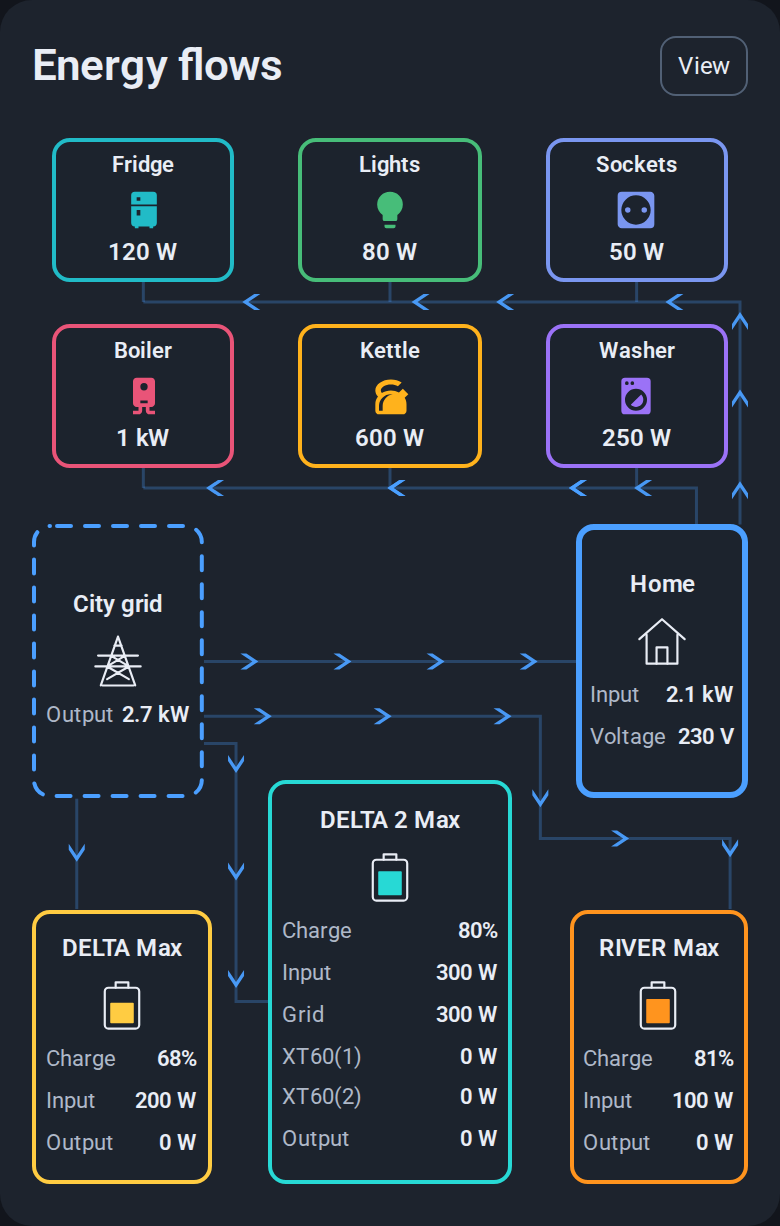
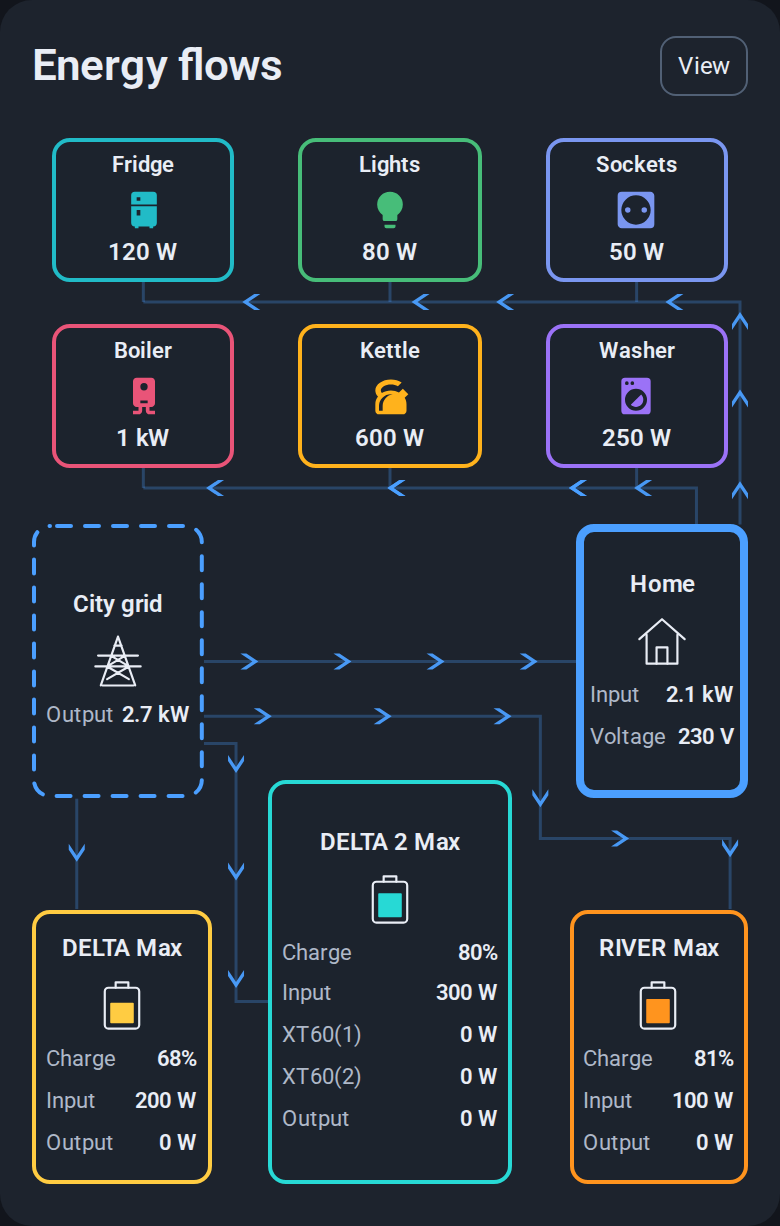
Beta 2.1.3: preserve 2.1.1 flow curves with three minimal display changes

diff --git a/suris-ecoflow-flow-card.js b/suris-ecoflow-flow-card.js
@@ -1,8 +1,8 @@
-/* Suris EcoFlow Flow Card v2.1.1 | MIT | No external dependencies. */
+/* Suris EcoFlow Flow Card v2.1.3-beta.2 | MIT | No external dependencies. */
 (() => {
   'use strict';
   const TAG = 'suris-ecoflow-flow-card';
-  const VERSION = '2.1.1';
+  const VERSION = '2.1.3-beta.2';
   const ANIMATIONS = ['dashes', 'dots', 'arrows', 'pulse', 'single_dot'];
   const NS = 'http://www.w3.org/2000/svg';
   let cardSequence = 0;
@@ -200,6 +200,7 @@
     @container(max-width:520px){.node.home{padding-inline:3px}}
     .node.consumer{height:72px;min-height:72px;padding:4px;gap:3px;border-radius:9px}.consumer h3{font-size:clamp(11px,1.5cqw,13px);line-height:1.2;white-space:nowrap;overflow:hidden;text-overflow:ellipsis;overflow-wrap:normal}.consumer .icon{height:22px;margin:0;color:var(--node-color)}.consumer ha-icon{--mdc-icon-size:22px;width:22px;height:22px}.consumer ha-icon:not(:defined){display:none}.consumer ha-icon:defined+.fallback{display:none}.consumer .fallback{height:22px}.consumer .fallback svg{width:22px}.consumer .value{width:100%;text-align:center;font-size:12px;line-height:16px}.consumer:focus-within{outline:1px solid var(--node-color);outline-offset:2px}
     .sideflow .node{right:auto;bottom:auto;min-height:0;height:auto;padding:5px 6px;gap:2px;background:var(--ha-card-background,var(--card-background-color,#1c1c1c));border-radius:10px}
+    .sideflow .auxiliary_1,.sideflow .auxiliary_2{padding-inline:1px}
     .sideflow .node h3{font-size:clamp(11.5px,3.625cqw,14.5px);line-height:1.1;overflow:hidden;display:-webkit-box;-webkit-box-orient:vertical;-webkit-line-clamp:2;white-space:normal;overflow-wrap:anywhere}
     .sideflow .node .icon{display:none}.sideflow .row{font-size:clamp(11px,3.25cqw,13px);line-height:1.2;gap:2px}.sideflow .row[hidden]{display:none}
     .sideflow .grid h3,.sideflow .home h3{display:none}.sideflow .grid .icon,.sideflow .home .icon{display:flex;height:clamp(28px,8cqw,38px);margin:0}.sideflow .grid .icon{color:var(--flow-grid)}.sideflow .home .icon{color:var(--flow-home)}
@@ -327,7 +328,7 @@
         }
         else {
           this._row(node, 'soc', text.soc); this._row(node, 'input', text.input);
-          if (key === 'main') { this._row(node, 'ac', text.ac); this._row(node, 'solar_1', 'XT60(1)'); this._row(node, 'solar_2', 'XT60(2)'); }
+          if (key === 'main') { this._row(node, 'solar_1', 'XT60(1)'); this._row(node, 'solar_2', 'XT60(2)'); }
           this._row(node, 'output', text.output);
         }
         this._nodes[key] = node; this._diagram.append(node);
@@ -364,7 +365,6 @@
         let entity = c[node][field === 'soc' ? 'soc' : `${field}_power`];
         if (node === 'grid') entity = c.grid.power;
         if (node === 'home') entity = field === 'voltage' ? c.home.voltage : c.home.power;
-        if (node === 'main' && field === 'ac') entity = c.main.ac_input_power;
         if (node === 'main' && field === 'solar_1') entity = c.main.solar_input_power;
         if (node === 'main' && field === 'solar_2') entity = c.main.solar_input_power_2;
         if (field === 'soc') value = value != null && value >= 0 && value <= 100 ? `${formatter.format(value)}%` : '—';
@@ -469,8 +469,9 @@
       place(this._nodes.main, Math.max(12, 10 * sx), 0, 126 * sx);
       place(this._nodes.home, 176 * sx, 0, 84 * sx);
       this._nodes.home.style.minHeight = `${90 * sy}px`;
-      place(this._nodes.auxiliary_1, Math.max(12, 8 * sx), 0, 100 * sx);
-      place(this._nodes.auxiliary_2, 124 * sx, 0, 100 * sx);
+      const auxWidth = Math.max(110, 120 * sx);
+      place(this._nodes.auxiliary_1, Math.max(12, 8 * sx), 0, auxWidth);
+      place(this._nodes.auxiliary_2, 124 * sx + auxWidth - 100 * sx, 0, auxWidth);
       const consumerHeight = Math.max(60, Math.min(64, width * .16)), rightInset = 3 * sx;
       const consumerWidth = Math.min(consumerHeight * 1.55, width - rightInset - 260 * sx - 28), consumerX = width - rightInset - consumerWidth;
       for (const node of this._consumerNodes.values()) place(node, consumerX, 0, consumerWidth, consumerHeight);
@@ -501,7 +502,7 @@
       };
       const g = rect('grid'), a = rect('auxiliary_1'), b = rect('auxiliary_2'), m = rect('main'), h = rect('home'), sy = this._sideScale;
       const gap = h.x - g.right, auxLane = Math.max(a.bottom, b.bottom) + 12 * sy;
-      const gridHomeY = g.y + g.h / 2 - this._sideGridTitleSpace;
+      const gridHomeY = g.y + g.h / 2;
       const routes = {
         grid_main: `M ${g.x + g.w / 2} ${g.bottom} V ${m.y}`,
         grid_home: `M ${g.right} ${gridHomeY} C ${g.right + gap * .45} ${gridHomeY} ${h.x - gap * .25} ${h.y + h.h * .25} ${h.x} ${h.y + h.h * .25}`,

diff --git a/demo.html b/demo.html
@@ -1,5 +1,5 @@
 <!doctype html>
-<html lang="uk"><head><meta charset="utf-8"><meta name="viewport" content="width=device-width,initial-scale=1"><title>Suris EcoFlow Flow Card 2.1.1 — Demo</title>
+<html lang="uk"><head><meta charset="utf-8"><meta name="viewport" content="width=device-width,initial-scale=1"><title>Suris EcoFlow Flow Card 2.1.3-beta.2 — Demo</title>
 <style>body{margin:20px auto;padding:0 12px;max-width:1060px;background:#111;color:#eee;font:16px system-ui;--ha-card-background:#1c1c1c;--primary-text-color:#eee;--secondary-text-color:#aaa;--divider-color:#535861}nav{display:flex;gap:8px;flex-wrap:wrap;margin:16px 0}button{background:#222;border:1px solid #666;color:#eee;padding:10px 14px;border-radius:8px;cursor:pointer}button:focus-visible{outline:2px solid #27d9d5}p{color:#aaa;font-size:13px}</style>
 </head><body><nav><button data-mode="main">Дім від EcoFlow</button><button data-mode="aux3">Передача EcoFlow №3</button><button data-mode="grid">Дім від мережі</button><button data-mode="charging">Заряджання від мережі</button><button data-mode="replace">Заміна сильнішим приладом</button><button data-mode="single">Один ряд приладів</button><button data-mode="idle">Прилади вимкнені</button><button data-mode="unknown">Джерело недоступне</button></nav><div style="display:flex;gap:18px;flex-wrap:wrap;margin:12px 0"><label>Анімація потоків <select id="animation"><option value="dashes">Поточна анімація (штрихи)</option><option value="dots">Рухомі точки</option><option value="arrows">Рухомі стрілки</option><option value="pulse">Пульсуючі світлові смуги</option><option value="single_dot">Одна рухома точка</option></select></label><label>Розмір точок <input id="dot-size" type="range" min="2" max="10" value="5"><output id="size-output">5 px</output></label></div><suris-ecoflow-flow-card></suris-ecoflow-flow-card><p>Демонстраційні показники. Для встановлення відкрий README.md.</p>
 <script src="./suris-ecoflow-flow-card.js"></script><script>

diff --git a/README.md b/README.md
@@ -1,6 +1,8 @@
-# Suris EcoFlow Flow Card 2.1.1
+# Suris EcoFlow Flow Card 2.1.3-beta.2
 
-[English](README_EN.md) · [Стабільний реліз 2.1.1](https://github.com/Suris2009/suris-ecoflow-flow-card/releases/tag/v2.1.1) · [Завантажити JS](https://github.com/Suris2009/suris-ecoflow-flow-card/releases/download/v2.1.1/suris-ecoflow-flow-card.js)
+[English](README_EN.md) · [Стабільний реліз 2.1.1](https://github.com/Suris2009/suris-ecoflow-flow-card/releases/tag/v2.1.1) · [Завантажити JS](https://github.com/Suris2009/suris-ecoflow-flow-card/releases/download/v2.1.3-beta.2/suris-ecoflow-flow-card.js)
+
+**Бета на базі 2.1.1.** У HACS увімкни показ бета-версій. [Зміни](RELEASE_NOTES.md).
 
 Картка енергопотоків для Home Assistant, яка показує міську мережу, три станції EcoFlow, дім та індивідуальні споживачі в одній схемі.
 
@@ -12,7 +14,7 @@
 - **Настроювані кольори.** Окремі кольори міської мережі, кожної станції та кожного приладу. Є готові зразки, палітра, змішування відтінку, насиченості й яскравості та повернення типового кольору. Рамка дому автоматично має колір його джерела живлення.
 - **П’ять анімацій.** Рухомі штрихи, точки, стрілки, пульсуючі світлові смуги та одна рухома точка. Розмір точок регулюється від 2 до 10 px.
 - **Регулювання швидкості та порога активності.** Загальну швидкість руху можна змінювати в редакторі, а кожна лінія додатково реагує на свою потужність. Оновлення показників змінює швидкість без перезапуску анімації. Неактивні лінії приховані.
-- **Усі основні показники.** Заряд, вхід і вихід трьох станцій; окремий AC-вхід головної EcoFlow та два входи XT60(1)/XT60(2). Для дому — потужність і необов’язковий датчик напруги. Значення автоматично відображаються у W або kW.
+- **Усі основні показники.** Заряд, вхід і вихід трьох станцій; два входи XT60(1)/XT60(2) головної EcoFlow. Для дому — потужність і необов’язковий датчик напруги. Значення автоматично відображаються у W або kW.
 - **Автоматичне визначення живлення дому.** Джерело визначається за показаннями потужності. Окремий датчик потужності дому необов’язковий: картка може використовувати вихід головної EcoFlow або розрахунок від мережі з відніманням заряджання станцій.
 - **Попередження про відсутність мережі.** За налаштованим датчиком у блоці мережі блимає напис «Мережі немає». Джерела, що віддають енергію, мають рухомі пунктирні рамки за годинниковою стрілкою; рамка дому залишається суцільною.
 - **Назви, іконки та докладні дані.** У «Боковому потоці» назви приладів показані одним рядком, довгі скорочуються двома крапками; повна назва є в підказці. Іконки вирівняні між назвою та потужністю. Натискання показника з налаштованою сутністю відкриває її докладну інформацію.
@@ -34,11 +36,11 @@
 
 ## Встановлення та оновлення
 
-Додай `https://github.com/Suris2009/suris-ecoflow-flow-card` як користувацький репозиторій HACS для карток панелі огляду (Dashboard), встанови **2.1.1** та перезавантаж інтерфейс Home Assistant. Додай картку **Suris EcoFlow Flow Card** на панель і вибери сутності у візуальному редакторі.
+Додай `https://github.com/Suris2009/suris-ecoflow-flow-card` як користувацький репозиторій HACS для карток панелі огляду (Dashboard), встанови **2.1.3-beta.2** та перезавантаж інтерфейс Home Assistant. Додай картку **Suris EcoFlow Flow Card** на панель і вибери сутності у візуальному редакторі.
 
 Ресурс HACS: `/hacsfiles/suris-ecoflow-flow-card/suris-ecoflow-flow-card.js`, тип **JavaScript module**. Якщо ресурс уже додано, використовується той самий файл.
 
-Для ручного встановлення завантаж JS-файл із релізу, поклади його до `www` у каталозі конфігурації Home Assistant та додай ресурс `/local/suris-ecoflow-flow-card.js?v=2.1.1` типу **JavaScript module**. Якщо каталог `www` створено вперше, перезапусти Home Assistant.
+Для ручного встановлення завантаж JS-файл із релізу, поклади його до `www` у каталозі конфігурації Home Assistant та додай ресурс `/local/suris-ecoflow-flow-card.js?v=2.1.3-beta.2` типу **JavaScript module**. Якщо каталог `www` створено вперше, перезапусти Home Assistant.
 
 При оновленні зі стабільної 2.0.8 або бети 2.1 налаштування сутностей, приладів, кольорів і анімації зберігаються. Наявні картки початково використовують класичне розташування; збережений у браузері вибір бокового вигляду також залишається. Дублювати картку чи JS-ресурс не потрібно.
 

diff --git a/RELEASE_NOTES.md b/RELEASE_NOTES.md
@@ -1,21 +1,29 @@
-# 2.1.1 — Home border and optional names / Рамка дому та необов’язкові назви
-
-## English
-
-- Increase Home’s solid border slightly, from 3 px to 4 px, in both layouts.
-- Add separate switches for custom grid and Home names above their frames in Side flow. The names do not increase card height or replace the icons.
-- Keep existing view preferences, power calculations, consumer sizes, flow colors and animations.
-
-In **City grid** and **Home**, enter text in **Name** and enable **Show name above the block in Side flow**. Each name is controlled independently and appears above its frame. Long names are truncated, with the full text in a tooltip. Names are hidden by default and do not increase the card height.
-
-<img src="https://raw.githubusercontent.com/Suris2009/suris-ecoflow-flow-card/v2.1.1/preview-sideflow-names-en.png" width="390" alt="Side flow with grid and Home names above the frames">
+# 2.1.3-beta.2 — Minimal changes to 2.1.1 / Мінімальні зміни до 2.1.1
 
 ## Українська
 
-- Суцільна рамка дому трохи товстіша: 4 px замість 3 px в обох виглядах.
-- Додано окремі перемикачі довільних назв над рамками мережі й дому в боковому вигляді. Назви не збільшують висоту картки та не замінюють іконки.
-- Збережено вибір вигляду, розрахунки потужності, розміри споживачів, кольори й анімації потоків.
+Випуск підготовлено заново з вихідної стабільної версії **2.1.1**.
 
-У блоках **Міська мережа** та **Дім** введи текст у полі **Назва** й увімкни **Показувати назву над блоком у боковому вигляді**. Назви вмикаються окремо та показуються над відповідними рамками. Довгі назви скорочуються, а повний текст доступний у підказці. За замовчуванням назви приховані; висота картки не збільшується.
+- Прибрано рядок «Мережа» з головної станції.
+- Допоміжні станції розширено для показників до **1,25 kW** в одному рядку. Розмір шрифту збережено, ширина не залежить від показань датчиків.
+- Вихід потоку місто → дім розміщено по центру правої сторони міського блоку.
 
-<img src="https://raw.githubusercontent.com/Suris2009/suris-ecoflow-flow-card/v2.1.1/preview-sideflow-names-uk.png" width="390" alt="Боковий потік із назвами над рамками мережі й дому">
+Форма кривих потоків, положення нижнього ряду, анімації та розрахунки залишаються як у 2.1.1. AC-датчик залишається в налаштуваннях для розрахунків і потоку заряджання головної станції.
+
+На вузьких екранах із 5–6 приладами ширші допоміжні блоки та їхні потоки можуть накладатися на нижні прилади. Нижній ряд зберігає початкове розташування 2.1.1.
+
+<img src="https://raw.githubusercontent.com/Suris2009/suris-ecoflow-flow-card/v2.1.3-beta.2/preview-sideflow-feedback-uk.png" width="390" alt="Початкові криві потоків 2.1.1 з трьома мінімальними змінами">
+
+## English
+
+Rebuilt from the original stable **2.1.1** source.
+
+- Remove the Grid row from the main station.
+- Widen the auxiliary stations to display readings up to **1.25 kW** on one line. Retain the text size and fixed widths independent of sensor readings.
+- Place the city-to-Home outlet at the midpoint of the city block's right edge.
+
+Flow curves, the lower-row position, animations and power calculations retain their 2.1.1 behavior. The AC entity remains configured for calculations and the main station's grid charging flow.
+
+On narrow screens with 5–6 consumers, wider auxiliary blocks and their flows may overlap lower consumers. The lower row retains its original 2.1.1 position.
+
+<img src="https://raw.githubusercontent.com/Suris2009/suris-ecoflow-flow-card/v2.1.3-beta.2/preview-sideflow-feedback-en.png" width="390" alt="Original 2.1.1 flow curves with three minimal changes">

diff --git a/README_EN.md b/README_EN.md
@@ -1,6 +1,8 @@
-# Suris EcoFlow Flow Card 2.1.1
+# Suris EcoFlow Flow Card 2.1.3-beta.2
 
-[Українська](README.md) · [Stable release 2.1.1](https://github.com/Suris2009/suris-ecoflow-flow-card/releases/tag/v2.1.1) · [Download JS](https://github.com/Suris2009/suris-ecoflow-flow-card/releases/download/v2.1.1/suris-ecoflow-flow-card.js)
+[Українська](README.md) · [Stable release 2.1.1](https://github.com/Suris2009/suris-ecoflow-flow-card/releases/tag/v2.1.1) · [Download JS](https://github.com/Suris2009/suris-ecoflow-flow-card/releases/download/v2.1.3-beta.2/suris-ecoflow-flow-card.js)
+
+**Beta based on 2.1.1.** Enable beta versions in HACS. [Changes](RELEASE_NOTES.md).
 
 A Home Assistant energy flow card that brings the city grid, three EcoFlow stations, Home and individual consumers into one diagram.
 
@@ -12,7 +14,7 @@ A Home Assistant energy flow card that brings the city grid, three EcoFlow stati
 - **Custom colors.** Set separate colors for the city grid, each station and each device. Choose presets, use a palette, mix hue, saturation and lightness, or restore defaults. Home’s border automatically takes the color of its power source.
 - **Five animations.** Moving dashes, dots, arrows, pulsing light strips and one moving dot. Dot size is adjustable from 2 to 10 px.
 - **Adjustable speed and activity threshold.** Set the overall movement speed in the editor; each line also responds to its own power. Live readings adjust speed without restarting the animation. Inactive connections stay hidden.
-- **All key readings.** Battery charge, input and output for three stations; a dedicated AC input and two XT60(1)/XT60(2) inputs for the main EcoFlow. Home shows power and optional voltage. Values automatically use W or kW.
+- **All key readings.** Battery charge, input and output for three stations; two XT60(1)/XT60(2) inputs for the main EcoFlow. Home shows power and optional voltage. Values automatically use W or kW.
 - **Automatic Home source detection.** Power readings determine the source. A separate Home power sensor is optional: the card can use main EcoFlow output or calculate Home demand from grid power minus station charging.
 - **Grid outage warning.** An optional availability sensor triggers a pulsing No grid message inside the grid block. Supplying sources have clockwise moving dashed borders; Home retains a solid border.
 - **Names, icons and details.** Side flow keeps consumer names on one line, ending long names with two dots; the full name remains in the tooltip. Icons are centered between name and power. Clicking a reading with a configured entity opens its details.
@@ -34,11 +36,11 @@ Screenshots of the actual card with demonstration readings. Station names, entit
 
 ## Installation and upgrades
 
-Add `https://github.com/Suris2009/suris-ecoflow-flow-card` as a HACS custom Dashboard repository, install **2.1.1**, and reload the Home Assistant frontend. Add **Suris EcoFlow Flow Card** to your dashboard and select entities in the visual editor.
+Add `https://github.com/Suris2009/suris-ecoflow-flow-card` as a HACS custom Dashboard repository, install **2.1.3-beta.2**, and reload the Home Assistant frontend. Add **Suris EcoFlow Flow Card** to your dashboard and select entities in the visual editor.
 
 HACS resource: `/hacsfiles/suris-ecoflow-flow-card/suris-ecoflow-flow-card.js`, type **JavaScript module**. An existing resource continues to use the same file.
 
-For manual installation, download the release JS file, put it in `www` under your Home Assistant configuration directory, and add `/local/suris-ecoflow-flow-card.js?v=2.1.1` as a **JavaScript module** resource. Restart Home Assistant if you have just created `www` for the first time.
+For manual installation, download the release JS file, put it in `www` under your Home Assistant configuration directory, and add `/local/suris-ecoflow-flow-card.js?v=2.1.3-beta.2` as a **JavaScript module** resource. Restart Home Assistant if you have just created `www` for the first time.
 
 Upgrading from stable 2.0.8 or a 2.1 beta retains entities, consumers, colors and animation settings. Existing configurations initially use Classic; a Side flow selection already saved in the browser is also retained. No duplicate card or resource is needed.
 

diff --git a/CHANGELOG.md b/CHANGELOG.md
@@ -1,3 +1,33 @@
+# 2.1.3-beta.2 — Minimal changes to 2.1.1 / Мінімальні зміни до 2.1.1
+
+## Українська
+
+Випуск підготовлено заново з вихідної стабільної версії **2.1.1**.
+
+- Прибрано рядок «Мережа» з головної станції.
+- Допоміжні станції розширено для показників до **1,25 kW** в одному рядку. Розмір шрифту збережено, ширина не залежить від показань датчиків.
+- Вихід потоку місто → дім розміщено по центру правої сторони міського блоку.
+
+Форма кривих потоків, положення нижнього ряду, анімації та розрахунки залишаються як у 2.1.1. AC-датчик залишається в налаштуваннях для розрахунків і потоку заряджання головної станції.
+
+На вузьких екранах із 5–6 приладами ширші допоміжні блоки та їхні потоки можуть накладатися на нижні прилади. Нижній ряд зберігає початкове розташування 2.1.1.
+
+<img src="https://raw.githubusercontent.com/Suris2009/suris-ecoflow-flow-card/v2.1.3-beta.2/preview-sideflow-feedback-uk.png" width="390" alt="Початкові криві потоків 2.1.1 з трьома мінімальними змінами">
+
+## English
+
+Rebuilt from the original stable **2.1.1** source.
+
+- Remove the Grid row from the main station.
+- Widen the auxiliary stations to display readings up to **1.25 kW** on one line. Retain the text size and fixed widths independent of sensor readings.
+- Place the city-to-Home outlet at the midpoint of the city block's right edge.
+
+Flow curves, the lower-row position, animations and power calculations retain their 2.1.1 behavior. The AC entity remains configured for calculations and the main station's grid charging flow.
+
+On narrow screens with 5–6 consumers, wider auxiliary blocks and their flows may overlap lower consumers. The lower row retains its original 2.1.1 position.
+
+<img src="https://raw.githubusercontent.com/Suris2009/suris-ecoflow-flow-card/v2.1.3-beta.2/preview-sideflow-feedback-en.png" width="390" alt="Original 2.1.1 flow curves with three minimal changes">
+
 # 2.1.1 — Home border and optional names / Рамка дому та необов’язкові назви
 
 ## English
